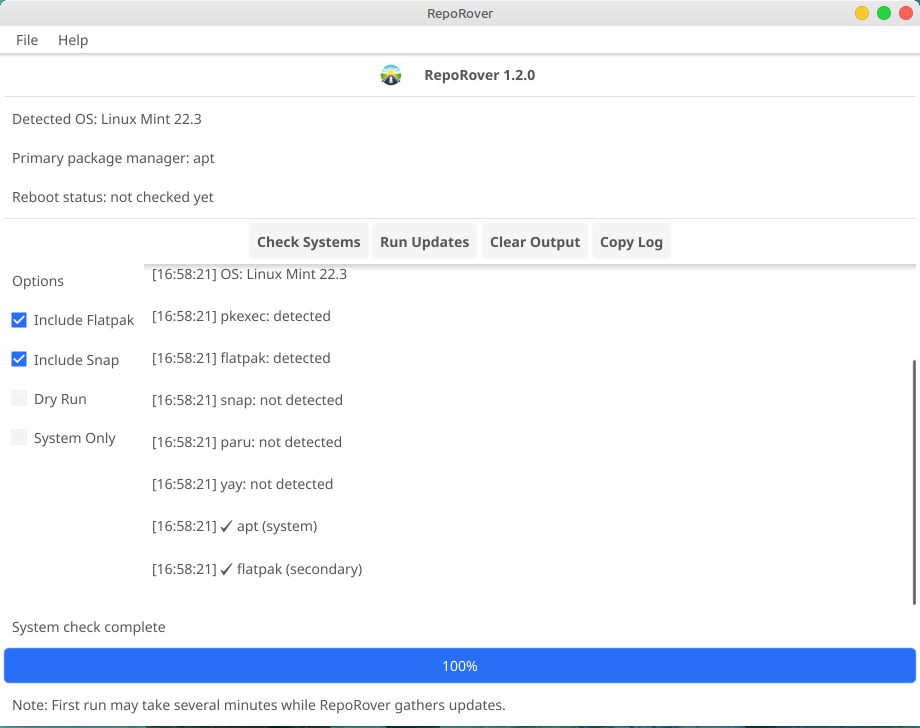
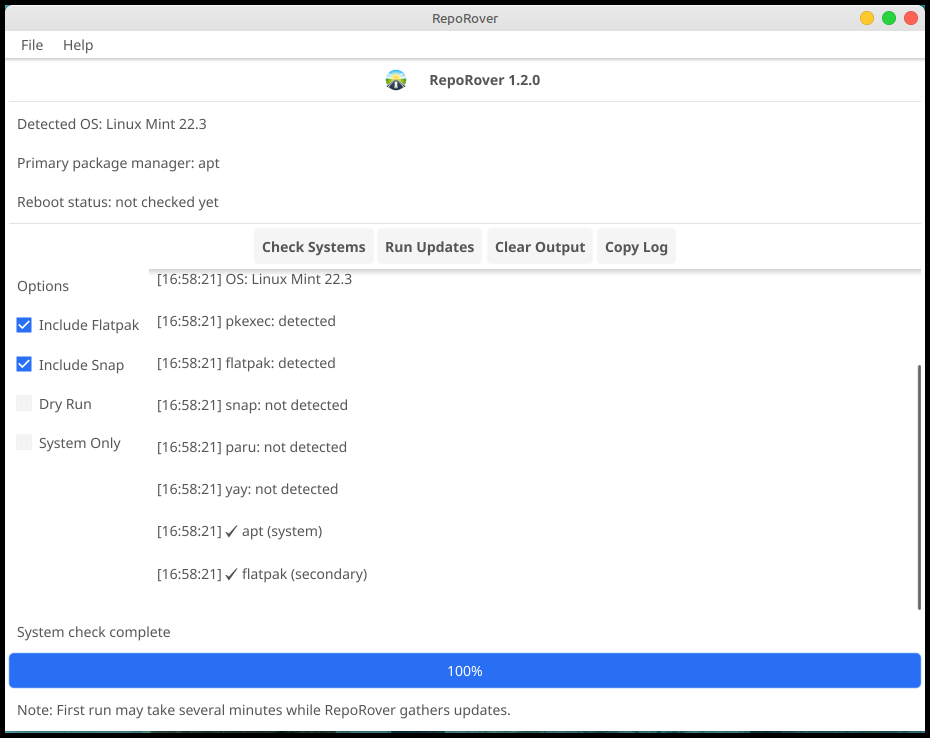
Screenshot Border - Update README.md

Changed region(s): [[0.0, 0.0, 1.0, 1.0], [0.1522, 0.544, 0.3957, 0.7857], [0.1522, 0.3022, 0.7304, 0.3929]]

diff --git a/README.md b/README.md
@@ -1,69 +1,73 @@
 # RepoRover
-“Update apt, snap, flatpak, pacman, zypper, and AUR — all in one click.”
+**Update apt, snap, flatpak, pacman, zypper, and AUR — all in one click.**
 
 <p align="center">
-  <img src="docs/output.gif" height="400" border="3" alt="RepoRover demo"/><br>
-  <sub>RepoRover updating multiple package managers from one interface</sub>
+  <img src="docs/output.gif" height="400" style="border:3px solid black" alt="RepoRover demo"/><br>
+  <sub>One tool. Every package manager. Zero command memorization.</sub>
 </p>
 
-**RepoRover** is a graphical Linux system update utility that helps you update multiple package managers from one interface.
+---
 
-It detects your Linux distribution and installed package managers, then runs the appropriate update workflow for your system.
-
-## Latest Release
-
-👉 **RepoRover v1.2.0 now available**  
-Includes improved AUR helper handling and updated release packaging.
-
-⭐ Featured on LinuxLinks: [Read the review](https://www.linuxlinks.com/reporover-universal-linux-package-updater/)
-
-![Platform](https://img.shields.io/badge/platform-Linux-blue)
-![License](https://img.shields.io/badge/license-MIT-green)
-![AppImage](https://img.shields.io/badge/Distribution-AppImage-orange)
-![GitHub stars](https://img.shields.io/github/stars/RossContino1/RepoRover)
-
-⭐ If you find RepoRover useful, consider starring the project.
+⭐ **If RepoRover saves you time, consider starring the project — it really helps visibility.**
 
 ---
 
-## Overview
+## 🚀 What is RepoRover?
 
-RepoRover is designed for Linux users who want a simpler way to keep their systems updated without memorizing package manager commands.
+**RepoRover** is a graphical Linux update utility that eliminates the need to remember package manager commands.
 
-Instead of manually running update commands, RepoRover provides a clean graphical interface that:
+It automatically:
+- Detects your Linux distribution
+- Detects installed package managers
+- Runs the correct update workflow for your system
 
-- detects your Linux distribution
-- detects installed package managers
-- runs the appropriate update commands for your system
-- securely requests administrator privileges using **pkexec**
-
-RepoRover is distributed as a **portable AppImage**, so it can run on many Linux systems without a traditional installer.
+👉 No more:
+- remembering `apt`, `dnf`, `pacman`, etc.
+- running multiple update commands
+- guessing which package manager to use
 
 ---
 
-## Features
+## ⚡ Why use RepoRover?
 
-- Simple graphical interface for Linux system updates
-- Automatically detects Linux distribution
-- Automatically detects installed package managers
-- Supports:
+Because Linux updates shouldn’t look like this:
+
+```bash
+sudo apt update && sudo apt upgrade
+flatpak update
+snap refresh
+```
+
+Or this:
+
+```bash
+sudo pacman -Syu
+yay -Syu
+```
+
+👉 RepoRover does it all for you — in one click.
+
+---
+
+## ✨ Features
+
+- 🧠 Auto-detects Linux distribution
+- 🔍 Auto-detects installed package managers
+- ⚙ Supports:
   - `apt`
   - `snap`
   - `flatpak`
   - `zypper`
   - `pacman`
-  - AUR helpers: `yay` and `paru`
-- Improved AUR helper handling in **v1.2.0**
-- Secure privilege escalation using **pkexec**
-- Portable **AppImage** distribution
-- Optional install and uninstall scripts
-- No traditional system-wide installation required
+  - AUR helpers: `yay`, `paru`
+- 🔐 Secure privilege escalation using **pkexec**
+- 📦 Portable **AppImage** (no install required)
+- 🧰 Optional install/uninstall scripts for menu integration
+- 🚀 Improved AUR handling in **v1.2.0**
 
 ---
 
-## Supported Distributions
-
-RepoRover currently supports:
+## 🐧 Supported Distributions
 
 - Ubuntu
 - Debian
@@ -73,11 +77,9 @@ RepoRover currently supports:
 - openSUSE Tumbleweed
 - CachyOS
 
-Support for additional distributions may be added in future releases.
-
 ---
 
-## Screenshots
+## 📸 Screenshots
 
 <p align="center">
   <b>🧭 Main Dashboard</b><br>
@@ -85,42 +87,110 @@ Support for additional distributions may be added in future releases.
 </p>
 
 <p align="center">
-  <b>🔍 Distro Discovery</b><br>
-  <img src="docs/2.png" width="700" style="border:3px solid black" alt="RepoRover distro discovery"/>
+  <b>🔍 Distro Detection</b><br>
+  <img src="docs/2.png" width="700" style="border:3px solid black" alt="RepoRover distro detection"/>
 </p>
 
 <p align="center">
-  <b>🔐 Sudo Permission Prompt</b><br>
-  <img src="docs/3.png" width="700" style="border:3px solid black" alt="RepoRover sudo permission prompt"/>
+  <b>🔐 Privilege Prompt</b><br>
+  <img src="docs/3.png" width="700" style="border:3px solid black" alt="RepoRover privilege prompt"/>
 </p>
 
 <p align="center">
-  <b>📊 Results View</b><br>
-  <img src="docs/4.png" width="700" style="border:3px solid black" alt="RepoRover results view"/>
+  <b>📊 Update Results</b><br>
+  <img src="docs/4.png" width="700" style="border:3px solid black" alt="RepoRover results"/>
 </p>
 
 ---
 
-## Homepage
+## 📦 Download
 
 [bytesbreadbbq.com/reporover](https://bytesbreadbbq.com/reporover/)
 
 ---
 
-## Source Code
+## 🔐 Permissions (Important)
+
+RepoRover uses **pkexec** (part of PolicyKit) to securely request administrator privileges when running system updates.
+
+### Distribution Notes
+
+- **Ubuntu / Debian / Linux Mint**  
+  Works out of the box.
+
+- **Arch / CachyOS**  
+  Works out of the box. GUI privilege prompts rely on PolicyKit / polkit being present, which is typical on these systems.
+
+- **openSUSE**  
+  Works out of the box.
+
+- **Fedora**  
+  Usually includes PolicyKit already, but if it is missing:
+
+```bash
+sudo dnf install polkit
+```
+
+### If no password prompt appears
+
+Your system may be missing or misconfigured PolicyKit.
+
+RepoRover does **not** bypass system security. It uses your system’s native authentication flow through `pkexec`.
+
+---
+
+## ⚠ AUR (Arch-based systems)
+
+RepoRover supports both:
+- `yay`
+- `paru`
+
+### How AUR helper detection works
+
+- RepoRover checks whether `yay` and/or `paru` are installed.
+- If only one is present, RepoRover uses that helper.
+- If both are present, RepoRover currently selects an available helper automatically.
+
+### Important note about `yay` vs `paru`
+
+On some systems, both helpers may be installed, but one may work better than the other for a particular setup.
+
+For example, a package may have originally been installed using `yay`, while `paru` is also present on the machine. In rare cases, `paru` may fail even though `yay` succeeds when run manually.
+
+If that happens:
+- Run updates manually using your preferred helper:
+  - `yay -Syu`
+  - `paru -Syu`
+- Then re-run RepoRover if needed.
+
+Future versions of RepoRover will continue improving AUR helper selection logic.
+
+---
+
+## 🌐 Homepage
+
+[bytesbreadbbq.com/reporover](https://bytesbreadbbq.com/reporover)
+
+---
+
+## 🌐 Source Code
 
 [github.com/RossContino1/RepoRover](https://github.com/RossContino1/RepoRover)
 
 ---
 
-## Requirements
+## ⭐ Support the Project
 
-RepoRover requires the following components.
+If RepoRover saves you time, consider:
 
-### pkexec (PolicyKit)
+- ⭐ Starring the repo
+- 🔁 Sharing it with other Linux users
+- ☕ Supporting development
 
-Used to securely request administrator privileges.
+[![Support via PayPal](https://img.shields.io/badge/Support-PayPal-blue?style=for-the-badge&logo=paypal)](https://www.paypal.com/donate/?hosted_button_id=XS9MXN5AE5P3S)
 
-**Fedora**
-```bash
-sudo dnf install polkit
+---
+
+## 📄 License
+
+This project is licensed under the MIT License.
